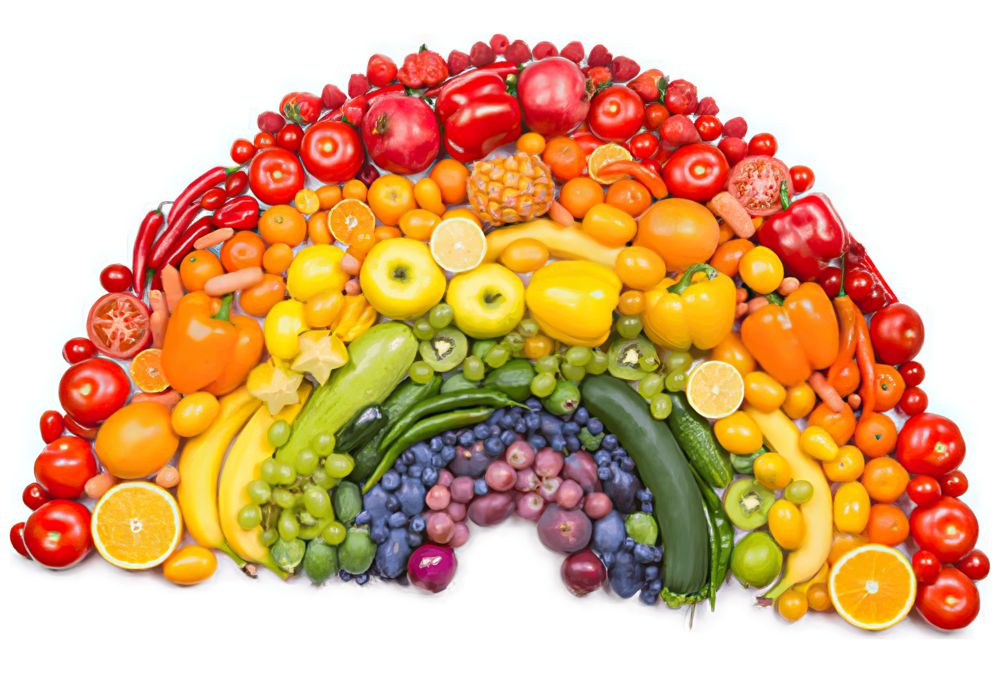
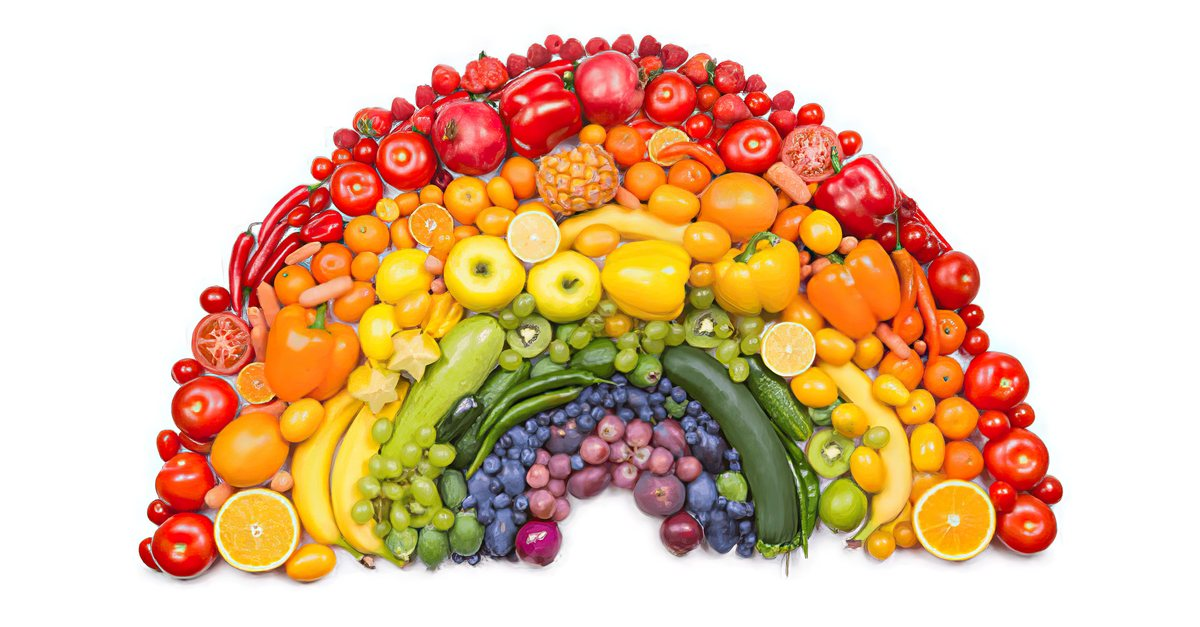
Add files via upload

diff --git a/index.html b/index.html
@@ -3385,6 +3385,10 @@ html body .hero #precedeLead,html body .hero #precedeLeadMobile{font-size:min(2.
 .hero .hrail{border-bottom-color:transparent!important}
 /* (user request v66) desktop screen 1: HONIORA wordmark and everything below it up 30px, "Introducing" stays put */
 @media(min-width:1001px){#heroWordmark,.hero-tag,.hero-solution-right{translate:0 -70px}}
+/* (user request v75) Oxxynea bg: fruit and vege rainbow on white, shown whole (contain, never cropped) */
+#oxxynea{background-color:#fff;background-size:contain;background-repeat:no-repeat;background-position:center}
+#oxxynea .livaux-box{background:rgba(255,255,255,.8);backdrop-filter:none;-webkit-backdrop-filter:none}
+@media(max-width:1000px){#oxxynea{background-size:92vw auto;background-position:center 28px;padding-top:calc(92vw / 1.915 + 56px)}}
 </style>
 </head>
 <body>
@@ -4850,10 +4854,10 @@ html body .hero #precedeLead,html body .hero #precedeLeadMobile{font-size:min(2.
       <p class="lede">HONI<i>ORA</i> carries 450 mg of Oxxynea<sup class="rn">&reg;</sup> per serving, the daily dose its maker, Fytexia (Biotexia), recommends and sets to match the polyphenols in five servings of fruit and vegetables. It blends green olive leaf, grape seed and skin, pomegranate, green tea, grapefruit, bilberry and orange extracts, standardised to at least 51% total polyphenols and carrying over 100 identified compounds from five families: flavan-3-ols, flavanones, ellagitannins, secoiridoids and anthocyanins.<br><a class="cite" href="https://doi.org/10.3390/nu14224913" target="_blank" rel="noopener noreferrer">Supporting research <span>Romain et al. 2022, Nutrients &nearr;</span></a><a class="cite sup" href="https://www.biotexia.com" target="_blank" rel="noopener noreferrer">Ingredient science <span>Biotexia &nearr;</span></a></p>
 
       <ul class="prob-list">
-        <li><span class="x">01</span><div><strong>Five a day, measured.</strong> <span class="d">The supplier measures 230 mg of polyphenols (gallic acid equivalents) in a 450 mg dose, against 228 mg in five average servings of fruit and vegetables.</span></div></li>
+        <li><span class="x">01</span><div><strong>Five a day, measured.</strong> <span class="d">A 450 mg dose measures 230 mg of polyphenols (gallic acid equivalents), against 228 mg in five average servings of fruit and vegetables.*</span></div></li>
         <li><span class="x">02</span><div><strong>Released across the whole day.</strong> <span class="d">In a randomised, double-blind, placebo-controlled crossover trial of 10 healthy adults, one 450 mg dose gave three peaks of polyphenol metabolites in the blood, at about 2, 4.5 and 9.5 hours, with metabolites still excreted 14 to 24 hours later. Estimated bioavailability was 27%.</span></div></li>
         <li><span class="x">03</span><div><strong>Steadier than a single polyphenol.</strong> <span class="d">Because the blend spans five polyphenol families, total metabolite levels varied less between people than any single family did, so exposure is more consistent from person to person.</span></div></li>
-        <li><span class="x">04</span><div><strong>Gentle on caffeine.</strong> <span class="d">The green tea extract brings about 30 mg of EGCG and less than 0.5 mg of caffeine per daily dose, per the supplier.</span></div></li>
+        <li><span class="x">04</span><div><strong>Gentle on caffeine.</strong> <span class="d">The green tea extract brings about 30 mg of EGCG and less than 0.5 mg of caffeine per daily dose.*</span></div></li>
       </ul>
 
       <p class="small" style="margin-top:30px;max-width:78ch">Ingredient-level evidence, see the <a href="#evidence-note" style="color:inherit;text-decoration:underline">evidence note</a>. The trial (Romain et al., <em style="font-style:italic">Nutrients</em> 2022; 14:4913, NCT03432104) was small, single-dose, in healthy adults, and funded by Fytexia, which employs three of its authors. The five-servings comparison and the caffeine and EGCG figures are supplier data. Fytexia also reports lower post-meal malondialdehyde and lower 24-hour mean arterial pressure against placebo in this study; those results are not in the published paper, so they are not claimed here. Oxxynea<sup class="rn">&reg;</sup> complements a varied diet, it does not replace one. No cited study is of the finished HONI<i>ORA</i> formula. Oxxynea is a trade mark of Fytexia.</p>
@@ -6279,6 +6283,13 @@ html body .hero #precedeLead,html body .hero #precedeLeadMobile{font-size:min(2.
           var sgap = window.innerWidth > 1000 ? 120 : 24;
           var sEbOff = seb ? (seb.getBoundingClientRect().top - el.getBoundingClientRect().top) : spad;
           return Math.max(0, el.getBoundingClientRect().top + window.scrollY + sEbOff - (hdr.getBoundingClientRect().bottom + sgap));
+        }
+        /* v77 #oxxynea: land with the top of the Oxxynea text box ~25px under the nav bar (per the user's screengrab) */
+        if (hash === '#oxxynea'){
+          var obox = el.querySelector('.livaux-box') || el;
+          var oty = 0;
+          try { var otf = getComputedStyle(obox).transform; oty = (otf && otf !== 'none') ? new DOMMatrix(otf).m42 : 0; } catch(_){ oty = 0; }
+          return Math.max(0, obox.getBoundingClientRect().top - oty + window.scrollY - (hdr.getBoundingClientRect().bottom + 25));
         }
         /* v42 #lactospore: land with the white LactoSpore box centred in the space under the nav bar (per the user's screengrab) */
         if (hash === '#lactospore'){
